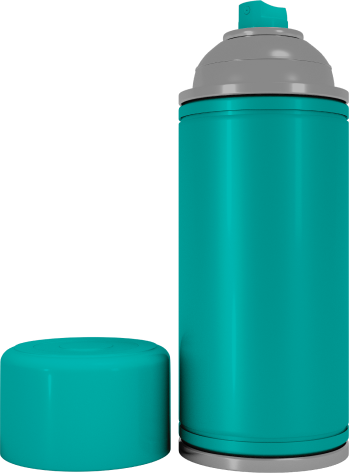
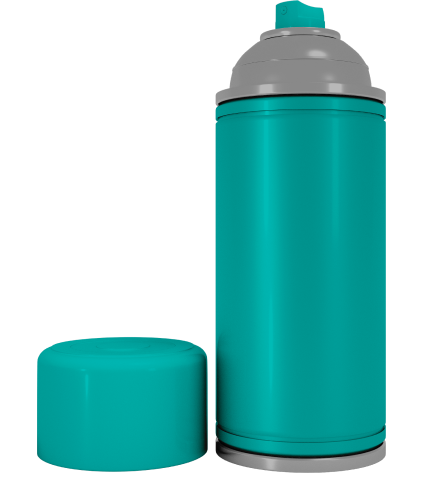
splide responsive

Changed region(s): [[0.0, 0.0, 1.0, 1.0], [0.659, 0.6216, 0.6877, 0.7992], [0.8309, 0.2664, 0.8596, 0.3256]]

diff --git a/src/fitures/slider/_slider.sass b/src/fitures/slider/_slider.sass
@@ -1,9 +1,11 @@
 .splide
-    width: 349px
+    width: 412px
     height: 500px
     margin: 0 3rem
     @media screen and ( max-width: 1111px )
         margin: 0 auto
+    @media screen and ( max-width: 480px )
+        width: 280px
     &__arrow
         background: none
         width: 40px
@@ -28,6 +30,10 @@
         flex-direction: column
         align-items: center
         color: #fff
+        & > img
+            @media screen and ( max-width:480px  )
+                width: 70%
+                margin-left: -55px
 
 #monitor
     margin-top: 1rem

diff --git a/src/js/pages/main.js b/src/js/pages/main.js
@@ -68,7 +68,14 @@ function start() {
     }).mount();
     slider.on(
         "move",
-        newIndex => (monitor.innerHTML = ["#ffa826", "#00B1AB"][newIndex]),
+        newIndex =>
+            (monitor.innerHTML = [
+                "#FFA826",
+                "#00B1AB",
+                "#C9D5FD",
+                "#CAF68A",
+                "#15100A",
+            ][newIndex]),
     );
     const closeModal = () => (modal.style.display = "none");
     const openModal = () => {
